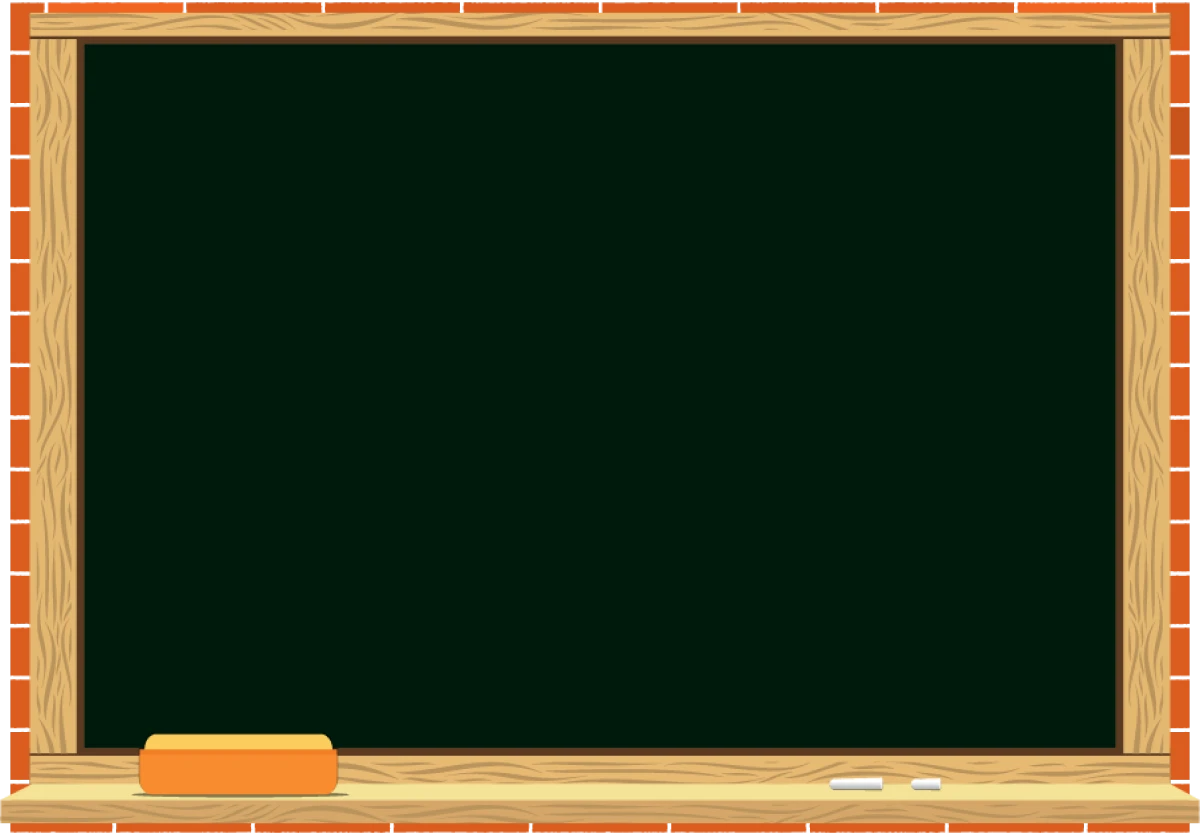
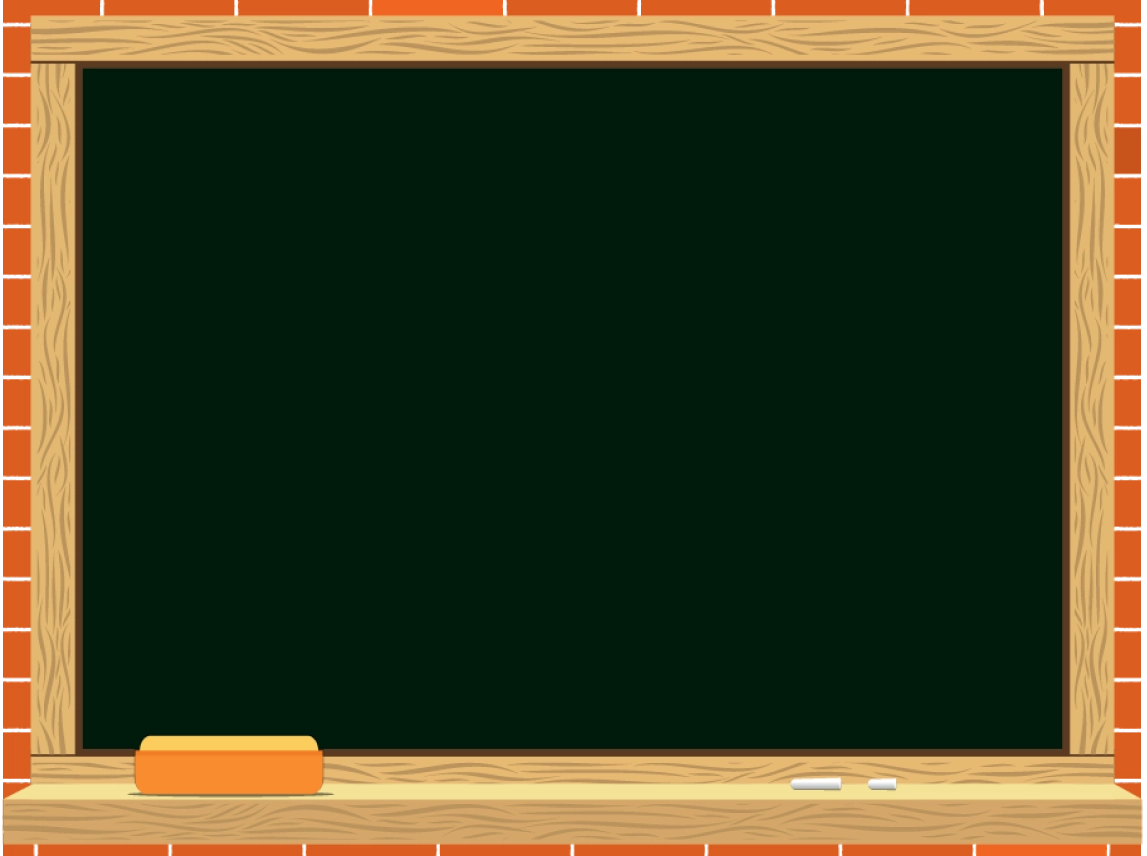
almoust done

Changed region(s): [[0.0, 0.0, 1.0, 1.0]]

diff --git a/game.html b/game.html
@@ -39,10 +39,10 @@
     }
 
     .gamezone__results {
-      font-size: 2.833vw;
+      font-size: 2.633vw;
       line-height: 2.833vw;
       margin: 0;
-      margin-bottom: 0.500vw;
+      margin-bottom: 0.35vw;
       font-family: "Poppins";
       color: #fff;
     }
@@ -61,7 +61,7 @@
     }
 
     .tcell {
-      padding: 0.55vw;
+      padding: 0.53vw;
       font-size: 1.657vw;
       cursor: default;
       border-right: 2px solid #000;
@@ -99,12 +99,14 @@
       justify-content: center;
       padding-top: 6.417vw;
       background: url(img/Desk.webp) center no-repeat;
-      background-size: cover;
+      /* background: url(img/workspace.png) center no-repeat; */
+
+      background-size: contain;
       margin: 0 auto;
     }
 
     .gamezone {
-      width: 78.750vw;
+      width: 74.5vw;
       height: 52.500vw;
     }
   </style>

diff --git a/src/game.html b/src/game.html
@@ -39,10 +39,10 @@
     }
 
     .gamezone__results {
-      font-size: 2.833vw;
+      font-size: 2.633vw;
       line-height: 2.833vw;
       margin: 0;
-      margin-bottom: 0.500vw;
+      margin-bottom: 0.35vw;
       font-family: "Poppins";
       color: #fff;
     }
@@ -61,7 +61,7 @@
     }
 
     .tcell {
-      padding: 0.55vw;
+      padding: 0.53vw;
       font-size: 1.657vw;
       cursor: default;
       border-right: 2px solid #000;
@@ -99,12 +99,14 @@
       justify-content: center;
       padding-top: 6.417vw;
       background: url(img/Desk.webp) center no-repeat;
-      background-size: cover;
+      /* background: url(img/workspace.png) center no-repeat; */
+
+      background-size: contain;
       margin: 0 auto;
     }
 
     .gamezone {
-      width: 78.750vw;
+      width: 74.5vw;
       height: 52.500vw;
     }
   </style>
